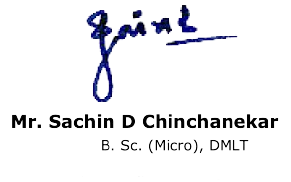
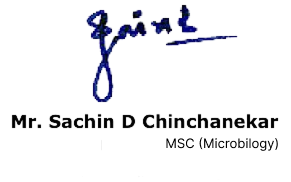
updating sachins signature

Changed region(s): [[0.3402, 0.7418, 0.9588, 0.8516]]

diff --git a/index.html b/index.html
@@ -62,7 +62,7 @@
     // CACHE BUSTING:
     // Generate a version string based on current time (e.g. rounded to hour)
     // to ensure the browser fetches the latest flutter configuration without manual clears
-    const serviceWorkerVersion = "1948516696" /* Flutter's service worker is deprecated and will be removed in a future Flutter release. */;
+    const serviceWorkerVersion = "2080600592" /* Flutter's service worker is deprecated and will be removed in a future Flutter release. */;
     var script = document.createElement('script');
     script.src = "flutter_bootstrap.js?v=" + new Date().getTime();
     script.async = true;

diff --git a/flutter_bootstrap.js b/flutter_bootstrap.js
@@ -37,6 +37,6 @@ _flutter.buildConfig = {"engineRevision":"425cfb54d01a9472b3e81d9e76fd63a4a44cfb
 
 _flutter.loader.load({
   serviceWorkerSettings: {
-    serviceWorkerVersion: "1948516696" /* Flutter's service worker is deprecated and will be removed in a future Flutter release. */
+    serviceWorkerVersion: "2080600592" /* Flutter's service worker is deprecated and will be removed in a future Flutter release. */
   }
 });
